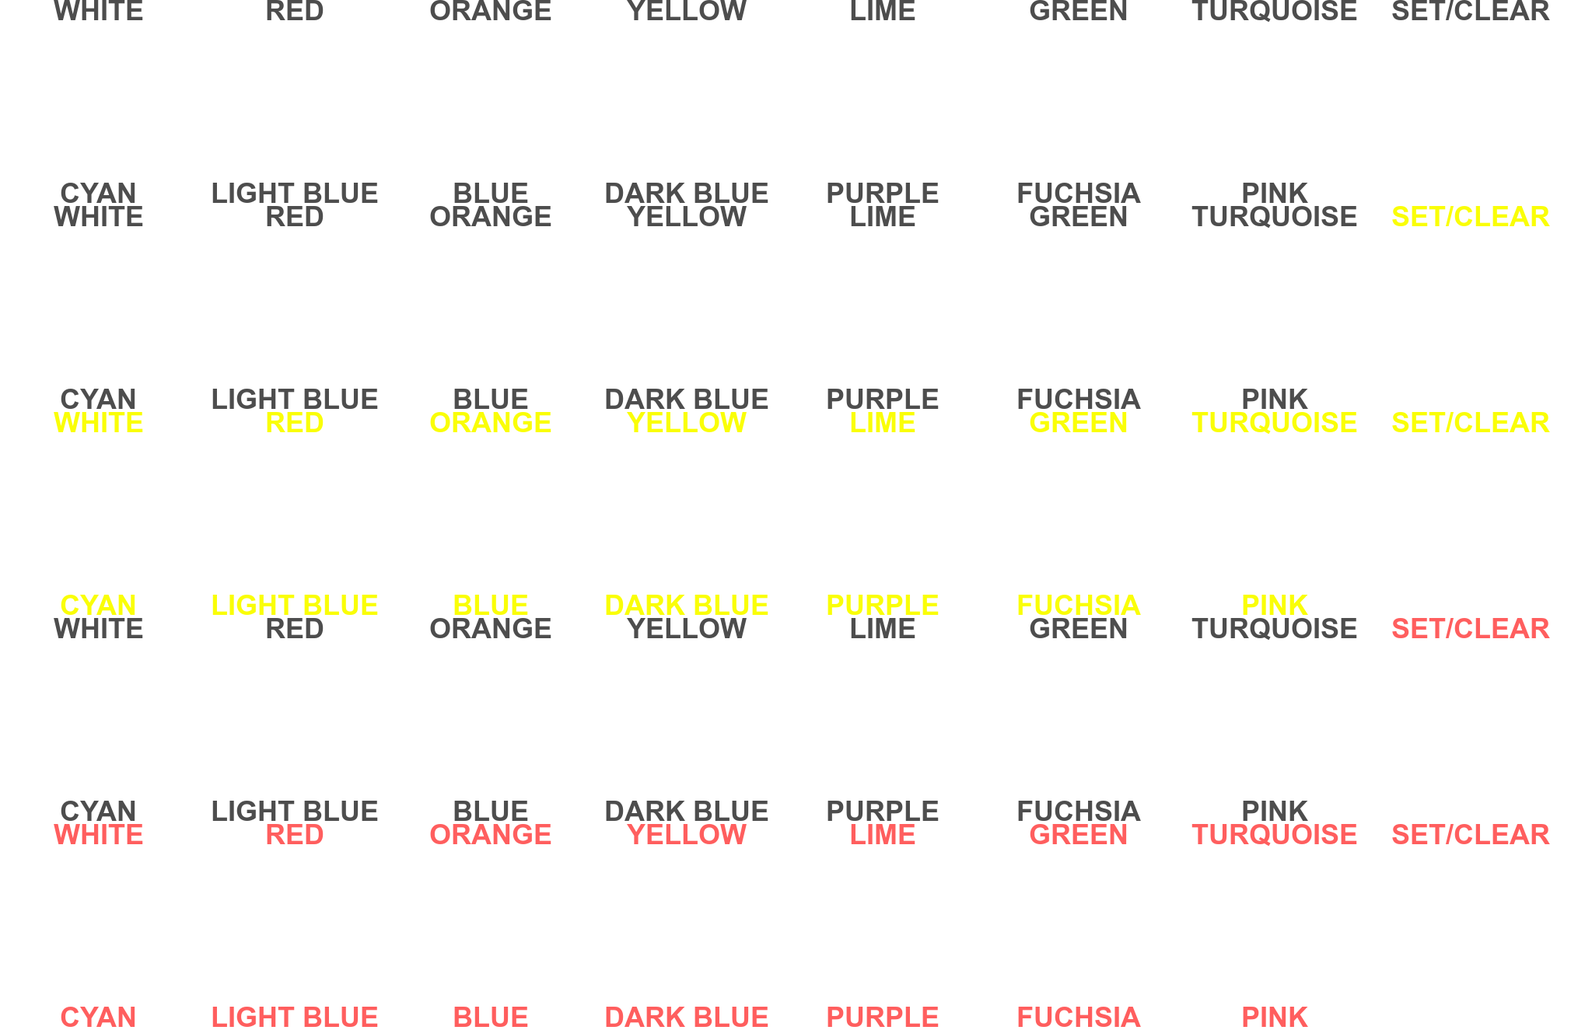
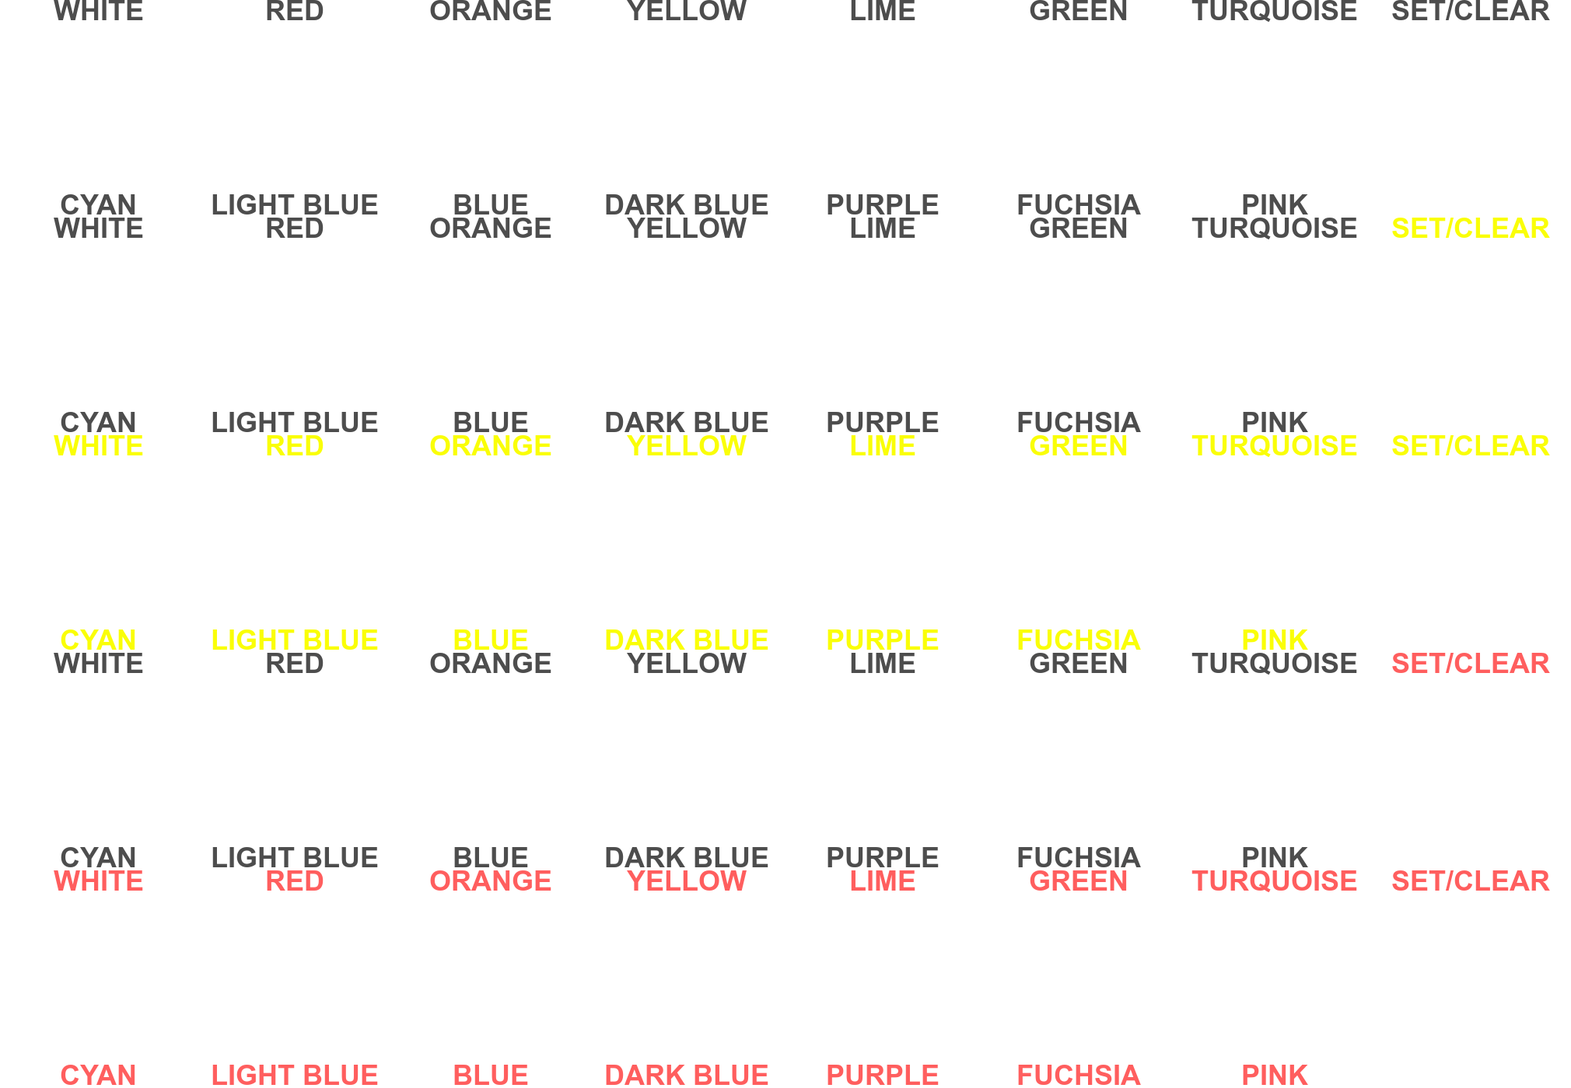
feat: track, clip and scene names (1.0.0d14)
Every track, launch button and scene gets a name the user types on the
panel: double-click, Return to store, Escape to cancel, and an empty
name stands for its default (Track n, Clip n by scene, Scene n), which
is never stored (ADR 0007). Track names show on the front and back
panels, kept in sync; names are saved with the song and in patches
(ADR 0003 amended), are not automatable and not Remote items.

Each name is a pair of host text widgets on one string property,
switched by visibility functions in gui_functions.lua: track and clip
names show in launch mode and clip picking, scene names in launch mode
only, back-panel track names always.

The front panel makes room for them: rows are 250 pixels apart instead
of 235, the back and set fill-in buttons sit right below the header and
the function rows lower down. The back panel's track numbers give way
to the names.

diff --git a/tools/make-cv-labels.py b/tools/make-cv-labels.py
@@ -18,7 +18,7 @@ CONTEXT.md):
   diagram to the right of the scene buttons: TRANSITION and the letters A to
   D, unlit, yellow or red.
 - GUI2D/Labels_Back.png holds every caption of the back panel, as large as
-  the panel: CV OUT, the track numbers, the letters of the CV outputs and,
+  the panel: CV OUT, the letters of the CV outputs and,
   left of the first track, the names of the CV modes with lines to the
   positions of the switch.
 
@@ -68,12 +68,12 @@ TRANSITIONS = ["OFF", "A", "B", "C", "D"]
 # itself is at DIAGRAM_LEFT, DIAGRAM_TOP, with the middle of its four boxes
 # DIAGRAM_ROWS pixels below its top.
 TRANSITION_LABELS_LEFT = 3170
-TRANSITION_LABELS_TOP = 1190
+TRANSITION_LABELS_TOP = 1233
 TRANSITION_LABELS_SIZE = (250, 300)
-DIAGRAM_TOP = 1250
+DIAGRAM_TOP = 1293
 DIAGRAM_ROWS = [28, 92, 156, 219]
 HEADING_LEFT = 3186
-HEADING_TOP = 1199
+HEADING_TOP = 1242
 LETTER_CENTRE = 3199
 
 # The back panel: the jacks of track 1 start 1100 pixels from the left, 220
@@ -167,14 +167,12 @@ def make_back_labels():
 	jack_centre = lambda track: JACK_LEFT + JACK_WIDTH // 2 + JACK_PITCH * track
 	row_centre = lambda output: JACK_TOP + JACK_HEIGHT // 2 + OUTPUT_PITCH * output
 
-	# CV OUT centred over the jacks, the track numbers over their columns, as
-	# they were with one CV output per track.
+	# CV OUT centred over the jacks. The track names below it are text
+	# widgets (see GUI2D/device_2D.lua).
 	heading = font(REGULAR, 68)
 	numbers = font(REGULAR, 54)
 	middle = (jack_centre(0) + jack_centre(TRACK_COUNT - 1)) // 2
 	draw_text(draw, (middle, 1227 - heading.getbbox("C", anchor="la")[1]), "CV OUT", BACK_TEXT, heading, "ma")
-	for track in range(TRACK_COUNT):
-		draw_text(draw, (jack_centre(track), 1354 - numbers.getbbox("1", anchor="la")[1]), str(track + 1), BACK_TEXT, numbers, "ma")
 
 	# The letters of the CV outputs to the right of the last track.
 	letter_centre = jack_centre(TRACK_COUNT - 1) + 120

diff --git a/Panel.cpp b/Panel.cpp
@@ -8,7 +8,7 @@ namespace {
 
 // Layout of the grid display, in its own pixels; matches GUI2D/device_2D.lua.
 const TJBox_Float32 kTrackPitch = 252.0f;
-const TJBox_Float32 kRowPitch = 235.0f;
+const TJBox_Float32 kRowPitch = 250.0f;
 const TJBox_Float32 kButtonWidth = 205.0f;
 const TJBox_Float32 kButtonHeight = 135.0f;
 

diff --git a/README.md b/README.md
@@ -2,11 +2,11 @@
 
 Launchnik is a utility Rack Extension for Reason that launches Player patterns the way clips are launched in the session view of Ableton Live. It sends pattern-selecting CV to Combinators that wrap Player devices, and changes patterns only at regular points in the song, every four bars unless set otherwise, so that everything stays in time. Each track has six CV outputs: one or more of them select patterns, the others send unipolar or bipolar values that can glide from clip to clip, for filter sweeps or risers. What each launch button sends, and in which colour it shows, is set up on the panel itself.
 
-Version 1.0.0d13, a development build. Requires Reason 14 or later.
+Version 1.0.0d14, a development build. Requires Reason 14 or later.
 
 ## The panel
 
-The front panel has eight **tracks**, one per column. Each track has eight **launch buttons** and a **function button** underneath, which stops, mutes or solos the track depending on the **function** chosen with the **function select buttons** below: MUTE under track 2, SOLO under track 3 and STOP under track 8. A row of launch buttons is a **scene**, with its **scene button** to the right. To the left of the function buttons is the **setup button**, to the left of scene 6 the **fill-in button**, and above the first two tracks the **back button** and the **set fill-in button**. To the right of the scene buttons is the **transition diagram**. The back panel has six **CV outputs**, A to F, for each track, each with a switch for its **CV mode**.
+The front panel has eight **tracks**, one per column. Each track has eight **launch buttons** and a **function button** underneath, which stops, mutes or solos the track depending on the **function** chosen with the **function select buttons** below: MUTE under track 2, SOLO under track 3 and STOP under track 8. A row of launch buttons is a **scene**, with its **scene button** to the right. To the left of the function buttons is the **setup button**, to the left of scene 6 the **fill-in button**, and above the first two tracks the **back button** and the **set fill-in button**. To the right of the scene buttons is the **transition diagram**. Above every track, launch button and scene button is its name, which you can change. The back panel has six **CV outputs**, A to F, for each track, each with a switch for its **CV mode**, and the track names above them.
 
 A launch button either holds a **clip** or is **empty**. A clip has one of fourteen colours and, for each of its track's six CV outputs, a pattern 1–8, a unipolar value, a bipolar value and a transition. A new device has only empty launch buttons.
 
@@ -55,6 +55,20 @@ Clicking a scene button has the same effect as clicking all eight launch buttons
 A scene button does not show which scene was launched; the launch buttons do that. Together, the eight scene buttons are the **interval meter**, which shows how far the song position is into the current switch interval. Each stands for one eighth of the interval, a **segment**: two beats in 4/4 with a switch interval of four bars. They light up from the bottom, the lower five in green, the next two in yellow and the top one in red, so a red button means that the switch point is less than a segment away. At the switch point the meter starts again with the bottom button.
 
 The meter follows the song position whether the song plays or not, and goes on running in clip editing. Before the start of the song, and while the length of the switch interval is "immediate", all scene buttons are unlit.
+
+## Naming tracks, clips and scenes
+
+Every track, launch button and scene has a name, so that you can tell at a glance what each is for: the instrument a track plays, the pattern a clip sends, the part of the song a scene belongs to. A **track name** stands above the track on the front panel and above the track's CV outputs on the back panel; a **clip name** stands above its launch button, and a **scene name** above its scene button. A new device names them Track 1 to Track 8, Clip 1 to Clip 8 (by scene, on every track) and Scene 1 to Scene 8.
+
+Double-click a name to change it: a text field opens with the name selected. Type the new name and press Return, or press Escape to leave it as it was. Clear the field and press Return to give the name back its default, such as "Track 3". Changing a track name on one panel changes it on the other.
+
+About twelve characters fit; a longer name is kept in full, but shown cut off at both ends. Names are not in capitals, unlike the labels.
+
+Track names and clip names are shown in launch mode and clip picking, and hidden in clip editing and fill-in editing, where the launch buttons stand for a clip's settings. Scene names are shown in launch mode only, since in clip picking the scene buttons stand for the lengths of the switch interval. On the back panel the track names are always shown.
+
+A launch button keeps its clip name while it is empty, like the rest of its clip, so the name comes back with the clip. Fill-ins have no names of their own.
+
+Names are saved with the song and in patches, and each change is a step in the undo history. They cannot be automated, and control surfaces can neither show nor change them.
 
 ## CV outputs
 
@@ -156,11 +170,11 @@ Clips are saved with the song, and each change is a step in the undo history. Se
 
 ## Patches
 
-A **patch** is what all 64 launch buttons hold, together with the length of the switch interval and the CV modes of the CV outputs, saved as a file, so that the same set of clips can be used in any song. The header of the panel, folded or not, shows the name of the patch and Reason's buttons for stepping through patches, browsing and saving.
+A **patch** is what all 64 launch buttons hold, their clip names included, together with the length of the switch interval, the CV modes of the CV outputs and the track and scene names, saved as a file, so that the same set of clips can be used in any song. The header of the panel, folded or not, shows the name of the patch and Reason's buttons for stepping through patches, browsing and saving.
 
 A patch does not hold what the tracks are playing. Loading one does not change what any track has selected, so it can be loaded while the song plays: a clip whose pattern changes switches at the next switch point, and a track whose selected launch button is now empty stops there. If the patch has another length, the switch points move as they do when the length is changed by hand.
 
-Launchnik comes with two patches: "Init Patch", in which every launch button is empty and which a new device starts with, and "All Patterns", in which every launch button holds a clip, with patterns 1–8 in rows 1–8 and each track in its own colour. Both have a switch interval of four bars.
+Launchnik comes with two patches: "Init Patch", in which every launch button is empty and which a new device starts with, and "All Patterns", in which every launch button holds a clip, with patterns 1–8 in rows 1–8 and each track in its own colour. Both have a switch interval of four bars and the default names. Patches saved with versions before 1.0.0d14 load with the default names too (see [0007](docs/adr/0007-an-empty-name-stands-for-the-default.md)).
 
 ## How launching works
 
@@ -180,7 +194,7 @@ The fill-in button can be automated as well, as "Fill-In": it records being pres
 
 Right-clicking a launch button or a function button offers automation and Remote Override for its track's selection, in any mode and function; alt-clicking opens the automation lane. The fill-in button does the same for "Fill-In". A scene launch is recorded in the selection lanes of the eight tracks; there is no lane of its own for scenes (see [0004](docs/adr/0004-a-scene-press-writes-eight-selections.md)).
 
-Clips, fill-ins, setup mode, the function and the length of the switch interval cannot be automated.
+Clips, fill-ins, setup mode, the function, the length of the switch interval and the names cannot be automated.
 
 For control surfaces, Launchnik provides these Remote items (N is the track, M the row, both 1–8):
 
@@ -226,6 +240,8 @@ Launchnik does not respond to MIDI CC messages.
 - There is no stop-all button.
 - A scene launch is recorded as automation of each track's selection, not as one event.
 - Patches cannot be loaded or saved from a control surface.
+- Names cannot be shown or changed from a control surface.
+- Nothing stops a name from being longer than its space; it is then shown cut off at both ends.
 - Only one patch besides the empty one is included; the Shop expects more.
 
 ## Building
@@ -305,7 +321,7 @@ The panel, the CV output into a Combinator, automation and Remote can only be te
 | `JukeBoxExports.cpp` | Entry points the host calls. |
 | `motherboard_def.lua` | Properties, Remote items, automation and CV outputs. |
 | `realtime_controller.lua` | Which property changes are passed to the realtime code. |
-| `GUI2D/` | Panel layout and the graphics it uses. |
+| `GUI2D/` | Panel layout and the graphics it uses; `gui_functions.lua` decides when the names are shown. |
 | `RE2D_Launchnik_Graphics/` | Source graphics that are not stock images. |
 | `tools/` | Scripts that build the film strips of the launch, scene, side and function buttons, of the labels and of the logo. |
 | `Resources/English/` | Texts shown by the host. |

diff --git a/CONTEXT.md b/CONTEXT.md
@@ -12,6 +12,10 @@ _Avoid_: Clip button, pad, cell
 What a **launch button** holds: a **colour** and, for each of its track's six **CV outputs**, a **pattern**, a **unipolar value**, a **bipolar value** and a **transition**. Launching the clip makes each CV output emit whichever of the three its **CV mode** picks. A launch button keeps all of them while it is **empty**, so a clip comes back as it was; a new clip has, on every CV output, the pattern of its row, unipolar value 0, bipolar value 0 and transition off. Several clips on a track may use the same pattern. A clip may also hold a **fill-in**.
 _Avoid_: Slot, pattern (for the clip itself); a **scene** is a row of launch buttons, not a clip
 
+**Clip name**:
+Text that the user gives a **launch button** so that its **clip** can be recognised. It is shown above the launch button and changed by double-clicking it. A launch button keeps and shows its clip name while it is **empty**, like its clip's other settings, so the name comes back with the clip. Like a **track name**, it shows about 12 characters. It is never shown empty: clearing it gives the launch button its default name back, Clip 1 to Clip 8 by **scene**, which is also what a new device shows. A **fill-in** has no name of its own. It is part of the **patch**, cannot be automated, and is not available to a control surface. It is shown in **launch mode** and **clip picking** and hidden in **clip editing** and **fill-in editing**.
+_Avoid_: Clip label, launch button name, title
+
 **Fill-in**:
 A second **colour** and, for each **CV output**, a second pattern, unipolar value, bipolar value and **transition** that a **clip** may hold, emitted instead of the clip's own while a fill-in is **playing** and the clip is **active**. It lies over the clip: underneath, the clip goes on as if there were no fill-in, its own transition included, and that is what the CV outputs emit again once the fill-in is cleared or over; at the **switch point** they jump, without a transition, to the clip's value or the queued clip's. A fill-in's transition is the exception to the rule that the active clip's transition counts: it moves from what is emitted at the press to the fill-in's value, landing on it at the switch point, like a riser; off jumps at the press. A launch button keeps its fill-in while it is **empty**, so that it comes back with the clip; an empty launch button has no fill-in to play. A new fill-in starts as a copy of its clip's patterns and values, with every transition off and the colour white, each time it is switched on. Fill-ins are part of the **patch**.
 _Avoid_: Fill, drum fill, fill-in mode (it is not a way of working like **launch mode** or **setup mode**)
@@ -36,7 +40,7 @@ One of fourteen hues that mark a **clip** so that it can be recognised: white, r
 _Avoid_: Tint, label
 
 **Patch**:
-What all 64 **launch buttons** hold, together with the **length** of the switch interval and the **CV mode** of every **CV output**, saved as a file that can be loaded into any Launchnik, in any song. It does not hold what the tracks are playing: loading a patch changes no **selection**. A new device has the patch in which every launch button is **empty**.
+What all 64 **launch buttons** hold (their **clip names** included), together with the **length** of the switch interval, the **CV mode** of every **CV output**, the **track names** and the **scene names**, saved as a file that can be loaded into any Launchnik, in any song. It does not hold what the tracks are playing: loading a patch changes no **selection**. A new device has the patch in which every launch button is **empty**.
 _Avoid_: Template, preset, layout
 
 **Unlit**, **dim**, **vibrant**:
@@ -81,9 +85,17 @@ Said of a **track** that is not **soloed** while another track is. Its CV output
 One column of the front panel: eight **launch buttons**, one **function button** and the six **CV outputs** they drive.
 _Avoid_: Column, channel, lane
 
+**Track name**:
+Text that the user gives a **track** so that it can be recognised, such as the instrument it plays. It is shown above the track on the front panel and above its **CV outputs** on the back panel, the same on both, and changed by double-clicking either. The panel shows about 12 characters, centred; a longer name is kept in full but shown cut off at both ends. It is never shown empty: clearing it gives the track its default name back, Track 1 to Track 8, which is also what a new device shows. It is part of the **patch**, cannot be automated, and is not available to a control surface. On the front panel it is shown in **launch mode** and **clip picking** and hidden in **clip editing** and **fill-in editing**; on the back panel it is always shown.
+_Avoid_: Track label, track title, caption
+
 **Scene**:
 One row of the front panel: the eight **launch buttons** at the same height on the eight **tracks**. Scenes are numbered 1 to 8 from the top.
 _Avoid_: Row (in prose), line
+
+**Scene name**:
+Text that the user gives a **scene** so that it can be recognised. It is shown above the **scene button** and changed by double-clicking it; it renames no **clip** of the scene. Like a **track name**, it shows about 12 characters. It is never shown empty: clearing it gives the scene its default name back, Scene 1 to Scene 8, which is also what a new device shows. It is part of the **patch**, cannot be automated, and is not available to a control surface. It is shown only in **launch mode**, since in **clip picking** the scene buttons stand for **lengths**.
+_Avoid_: Scene label, row name
 
 **Scene button**:
 The button to the right of a **scene**. In **launch mode**, clicking it means clicking all eight **launch buttons** of its scene at once, so a track whose launch button in that scene is **empty** stops. In **clip picking** the eight scene buttons stand for the eight **lengths** instead, immediate at the bottom and sixteen bars at the top: clicking one chooses that length and returns to launch mode. In **clip editing** a click does nothing. It never shows which scene was last chosen; outside clip picking its **light** belongs to the **interval meter**.
@@ -155,7 +167,7 @@ What a **launch button** is showing at the moment, in either mode: **unlit**, or
 _Avoid_: Lamp, LED, look, state (a state is **off**, **queued** or **active**)
 
 **Label**:
-The caption printed below a **launch button**, **scene button** or the **back button** that tells what the button does in **setup mode** (a colour, a pattern, a **length**, set/clear, back). Every label is printed the same in every mode, but like a **light** it is either lit or **unlit**: lit while it applies, in the **mode colour**, in white or in the colour of its button, and barely visible dark grey otherwise. The captions SETUP, FILL-IN, MUTE, SOLO and STOP are not labels: SETUP is always white, FILL-IN belongs to the **fill-in button**, and MUTE, SOLO and STOP to the **function select buttons**.
+The caption printed below a **launch button**, **scene button** or the **back button** that tells what the button does in **setup mode** (a colour, a pattern, a **length**, set/clear, back). Every label is printed the same in every mode, but like a **light** it is either lit or **unlit**: lit while it applies, in the **mode colour**, in white or in the colour of its button, and barely visible dark grey otherwise. The captions SETUP, FILL-IN, MUTE, SOLO and STOP are not labels: SETUP is always white, FILL-IN belongs to the **fill-in button**, and MUTE, SOLO and STOP to the **function select buttons**. Nor are **track names**, **clip names** and **scene names**, which the user writes.
 _Avoid_: Caption, legend, text, tag
 
 **Mode colour**:

diff --git a/docs/adr/0007-an-empty-name-stands-for-the-default.md b/docs/adr/0007-an-empty-name-stands-for-the-default.md
@@ -1,0 +1,17 @@
+# An empty name stands for the default
+
+**Track names**, **clip names** and **scene names** are stored as text the user typed, and as empty text otherwise. Nothing ever stores a default name such as "Track 1", "Clip 3" or "Scene 8": while a name is empty, the panel shows its default in its place. Clearing a name and confirming with Return therefore gives it back its default.
+
+We chose this because the host leaves no way to repair a name after the user has typed it. Names are typed into the host's own text field, which stores whatever it is given, empty text included, and has no setting for a minimum or maximum length. Realtime code cannot write saved properties, and control surfaces have no access to names, so nothing inside the device could put "Track 1" back once an empty name had been stored.
+
+## Considered options
+
+- **Refuse empty text.** What the user first asked for, so that a name could never vanish and leave nothing to double-click. The host's text field cannot be told to refuse it.
+- **Store the defaults.** A new device would store "Track 1" to "Track 8" and so on. An empty name would then be shown as nothing at all, and there would be no way back to the default except typing it.
+
+## Consequences
+
+- Each name is shown by two text widgets bound to the same property, on top of each other: one shows the name and is visible while it is not empty, the other shows the fixed default and is visible while it is empty. Both open the host's text field on a double click.
+- Patches saved before version 1.0.0d14 carry no names, so they load with every name empty, which is to say with the default names.
+- A name typed to read exactly like its default ("Track 3" on track 3) is stored as text, and looks the same as the default. Should the defaults ever change, such a name would stay as typed while empty names followed the new defaults. Once patches with names have been shared, the defaults should be treated as fixed.
+- The default names live in the text resources, not in the saved properties.

diff --git a/docs/adr/0003-patch-holds-clips-not-selections.md b/docs/adr/0003-patch-holds-clips-not-selections.md
@@ -20,3 +20,8 @@ Amended on 2026-10-12: a patch also holds the **length** of the switch interval,
 
 - Loading a patch may now change the timing of a running song: the switch points move to the grid of the patch's length, and with **immediate** whatever is queued takes effect at once. No selection changes, so nothing starts or stops that the user had not already chosen.
 - Patches saved before version 1.0.0d6 carry no length. The default, four bars, is what those versions always used, so such a patch is expected to load with four bars.
+
+Amended again on 2026-10-21 (version 1.0.0d14): a patch also holds the **track names**, **clip names** and **scene names**. Like the CV modes, they describe how the device is wired into a song rather than the grid alone, but they belong to a complete setup just the same, and a patch that left them out would carry the clips without saying what they are for.
+
+- Loading a patch renames the tracks, the clips and the scenes. A patch taken from another song, or one of the factory patches, replaces names chosen in this song, in the same single undo step.
+- Patches saved before version 1.0.0d14 carry no names, so they load with every name empty, which the panel shows as the default names (Track 1 to Track 8, Clip 1 to Clip 8, Scene 1 to Scene 8; see [0007](0007-an-empty-name-stands-for-the-default.md)). The factory patches carry no names either, and need no change.
